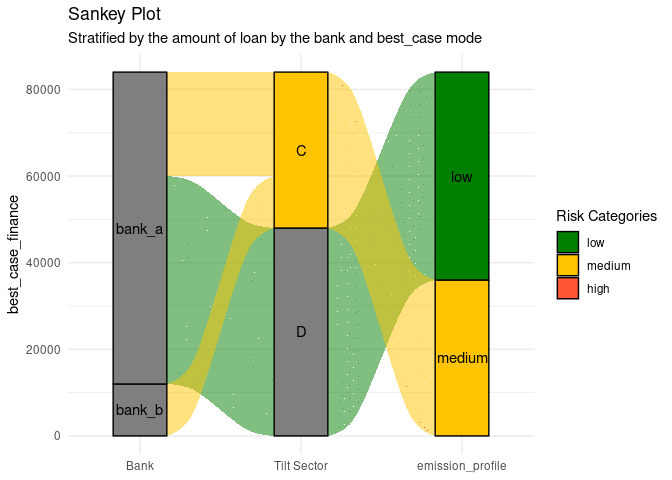
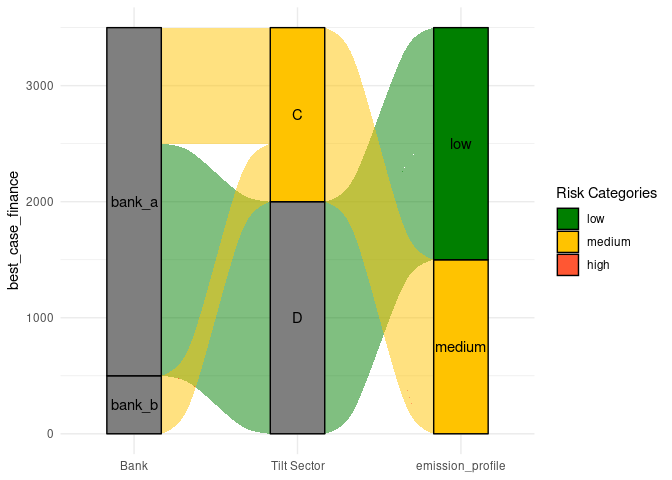
build readme + documented by inheritance

diff --git a/README.md b/README.md
@@ -59,7 +59,12 @@ financial
 
 ``` r
 fin <- financial
-plot_sankey(fin, with_company = TRUE, mode = "equal_weight")
+mode <- "equal_weight"
+plot_sankey(fin, with_company = TRUE, mode = mode) + 
+    ggtitle(
+      "Sankey Plot",
+      paste("Stratified by the amount of loan by the bank and", mode, "mode")
+    )
 ```
 
 <img src="man/figures/README-unnamed-chunk-4-1.png" width="100%" />
